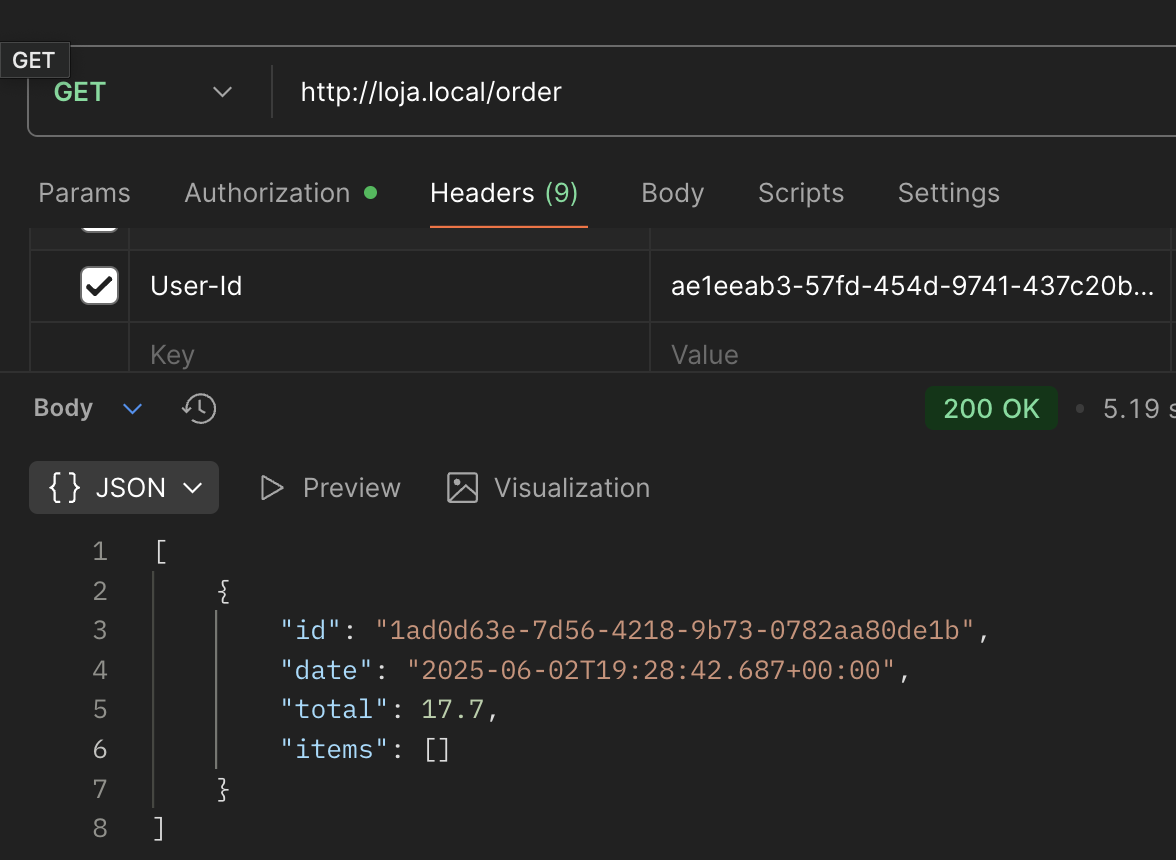
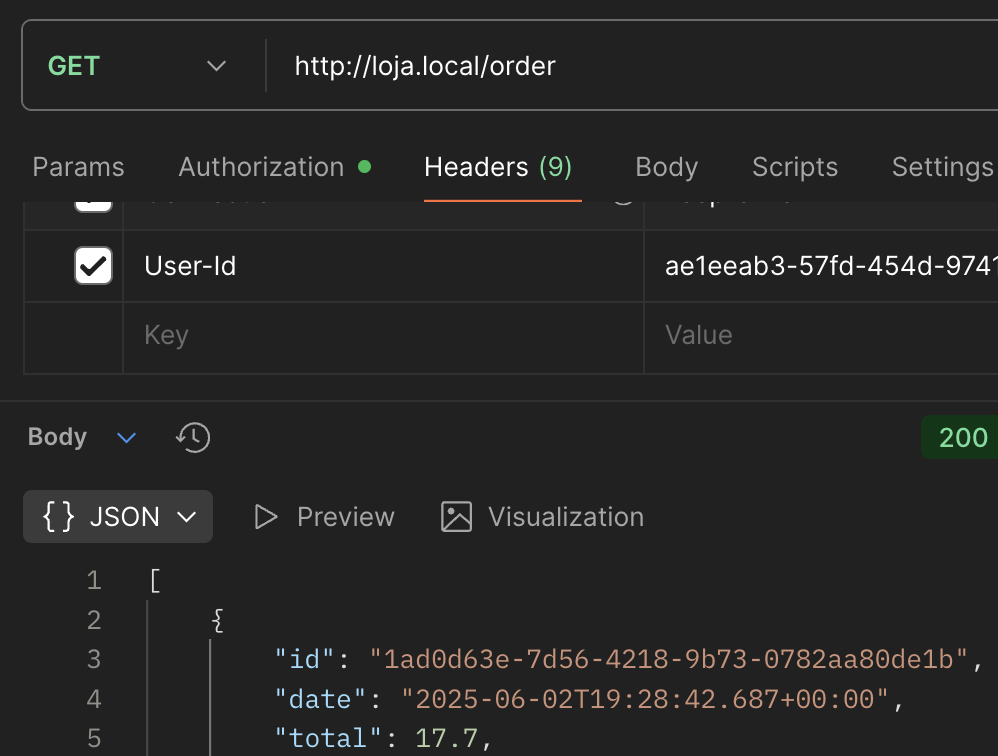
Add Postman images to documentation for Order API

diff --git a/docs/order/main.md b/docs/order/main.md
@@ -195,8 +195,5 @@ order/
         Response code: 404 (not found), if the order does not belong to the current user.
         ```
 
-## Additionals
-
-Additional features are welcome, such as:
-
-- Search products by "like" name;
+    === "Postman"
+        ![](./img/get-order.png){ width=100% }
